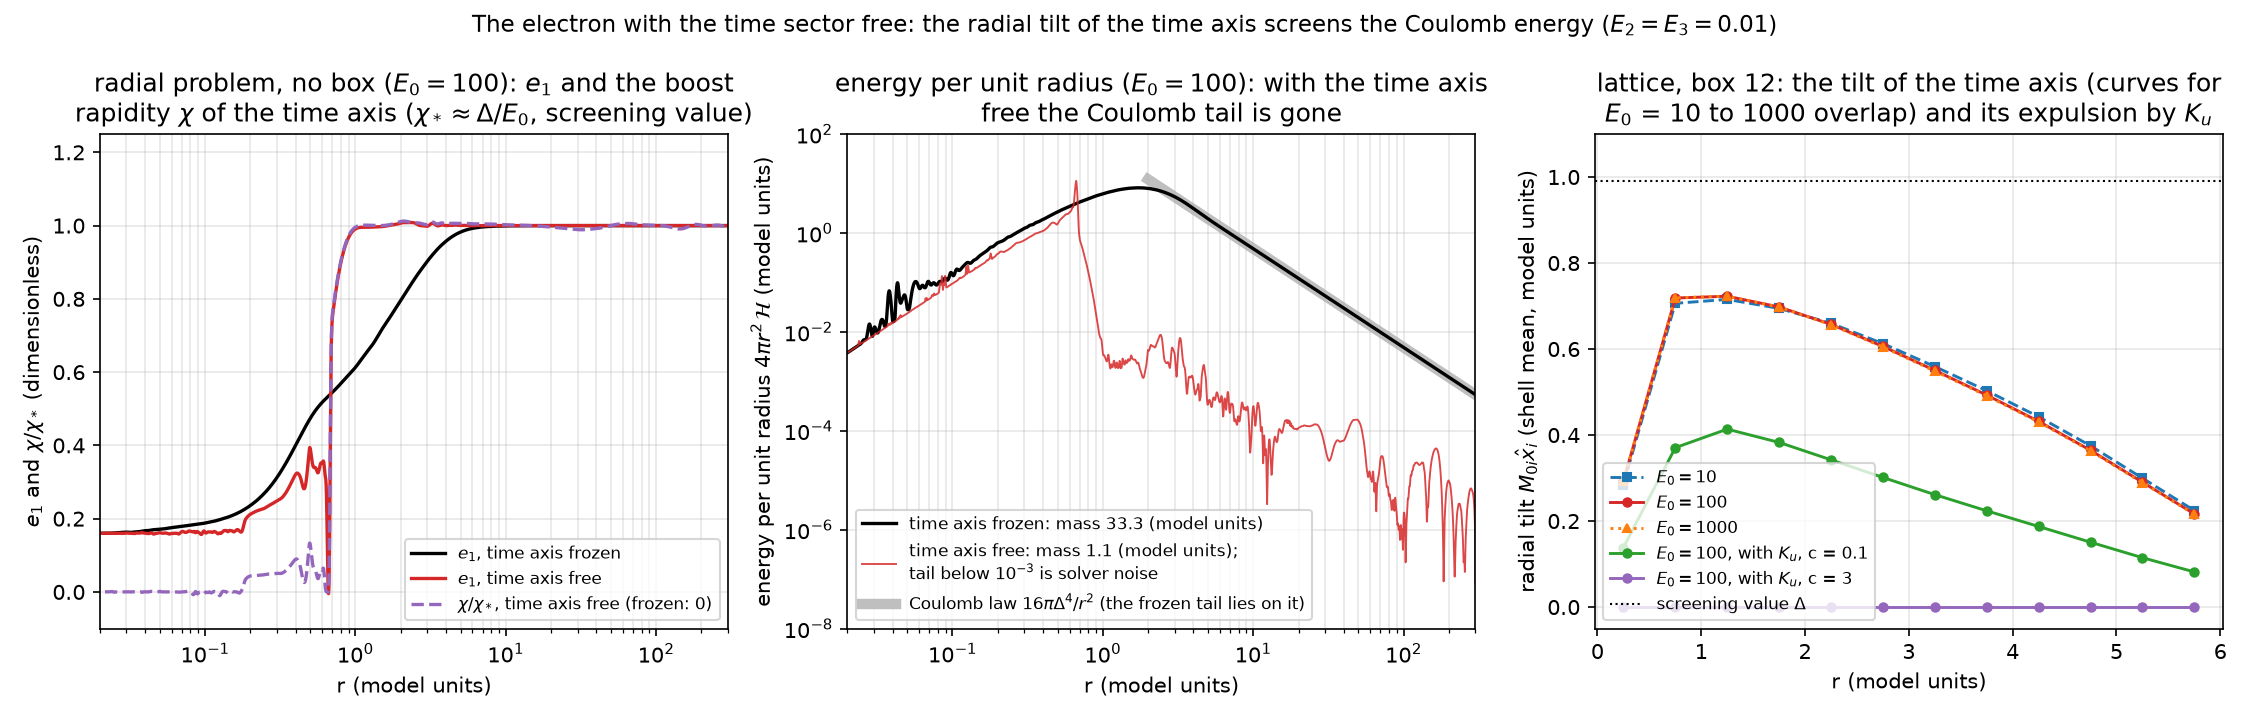
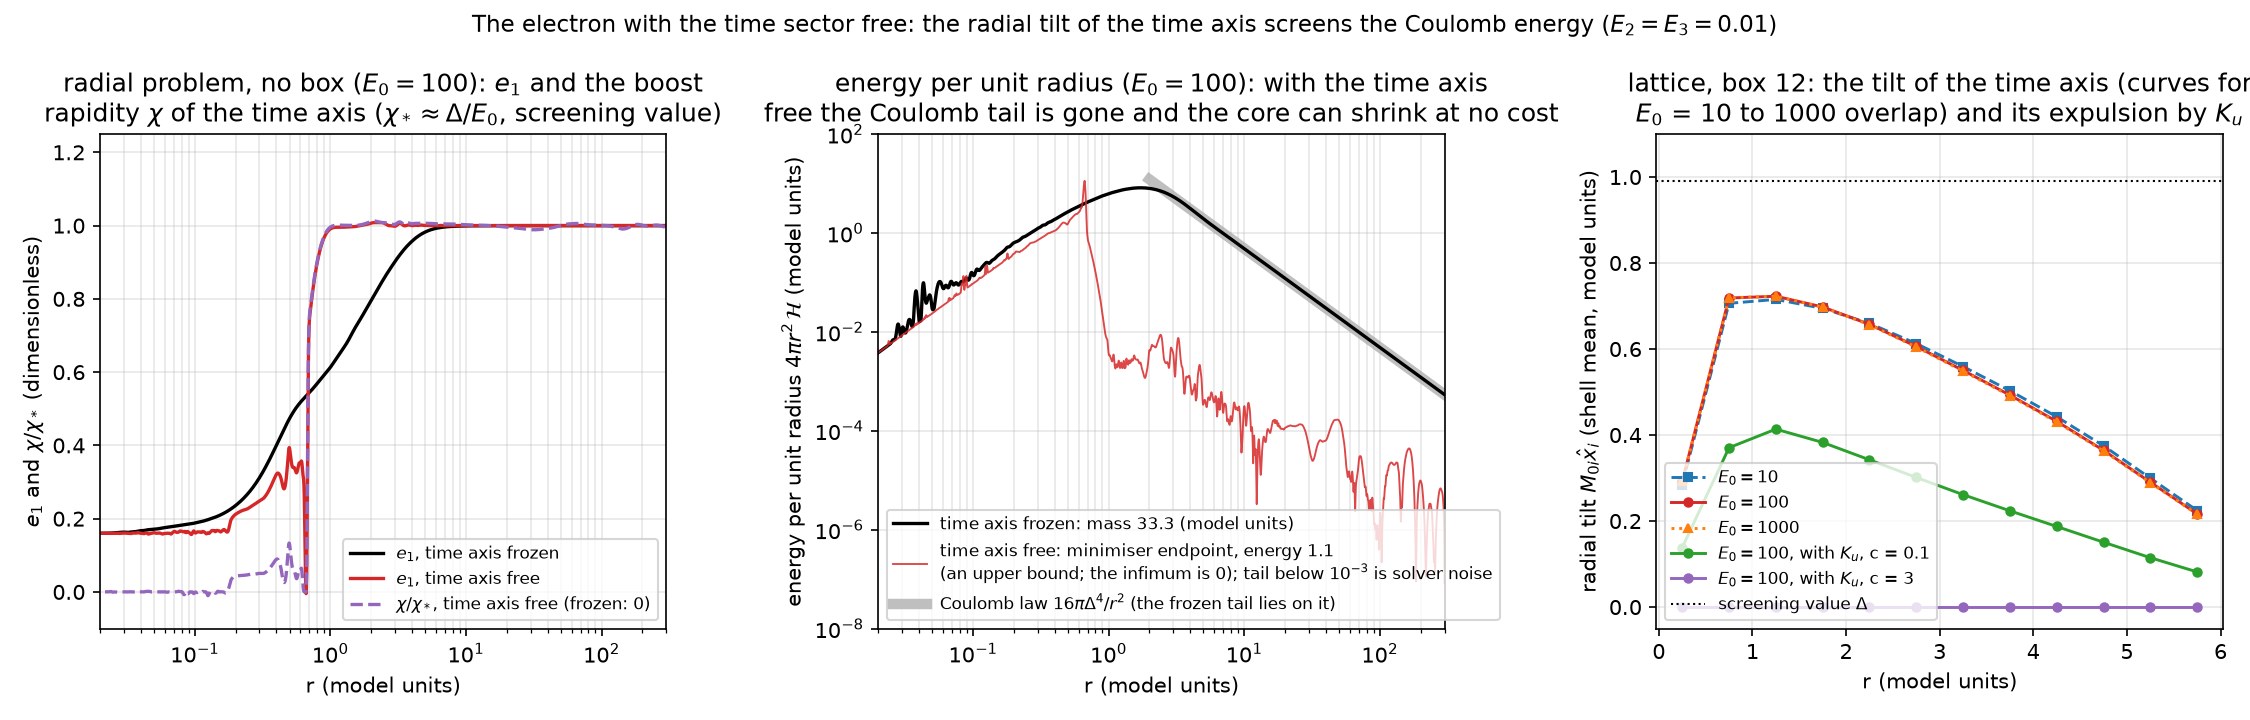
016 review round 1: the screened energy has infimum zero in the continuum (family with F = 0 and exact exterior spectrum, E <= (8 pi/3) Delta^2 R^3, checked symbolically and by integrating the model density); radial endpoints re-labelled as attained upper bounds; K_u noted to exclude the collapse fa
Claude-Session: https://claude.ai/code/session_01QP2nAtvThEMWhiKzux6iWF

diff --git a/reports/016-time-axis-screening/screened_infimum.py b/reports/016-time-axis-screening/screened_infimum.py
@@ -1,0 +1,107 @@
+"""With the time sector free and no frame term, the energy of the charged configuration has infimum zero
+(review round 1). The family N = C - a(r) P with C = diag(E_0 + Delta, B, B, B), B = E_2 = E_3,
+P = l l^T eta, l = (1, x/r) null, a smooth profile a(r) rising from 0 (r <= R/2) to
+a_* = (E_1 - B)(E_0 - B)/(E_0 + E_1 - 2B) (r >= R):
+  (i)  d_i N = -a' x_i/r P - a d_i P and these commute for every a, a', so F = 0 everywhere;
+  (ii) the spectrum of N is (B, B) together with the roots of lam^2 - (A + B) lam + AB + a(A - B), A = E_0 + Delta,
+       which are exactly (E_0, E_1) at a = a_*: outside r = R the potential vanishes too;
+  (iii) inside, V <= 2 Delta^2, so E(R) <= (8 pi / 3) Delta^2 R^3 -> 0, while the charge (degree of the charge
+       direction on spheres r > R) is 1.
+(i) and (ii) are checked with sympy at a generic point with a, a' symbolic; E(R) is integrated numerically
+for the smoothstep profile with the model's own density (lagrangian.terms, analytic Cartesian derivatives).
+Writes results/screened_infimum.json.
+"""
+import json
+import math
+import numpy as np
+import sympy as sp
+import torch
+from lagrangian import terms
+
+torch.set_default_dtype(torch.float64)
+E = (100.0, 1.0, 0.01, 0.01)
+B = E[2]; Delta = E[1] - B; A = E[0] + Delta
+a_star = (E[1] - B) * (E[0] - B) / (E[0] + E[1] - 2 * B)
+
+# (i), (ii) symbolic
+x, y, z = sp.symbols('x y z', real=True)
+a, ap = sp.symbols('a ap', real=True)
+E0s, E1s, Bs = sp.symbols('E0 E1 B', positive=True)
+lam = sp.Symbol('lam')
+As = E0s + E1s - Bs
+r = sp.sqrt(x ** 2 + y ** 2 + z ** 2)
+l = sp.Matrix([1, x / r, y / r, z / r])
+eta = sp.diag(1, -1, -1, -1)
+P = l * l.T * eta
+C = sp.diag(As, Bs, Bs, Bs)
+dN = [-(ap * v / r) * P - a * P.diff(v) for v in (x, y, z)]
+point = {x: 1, y: 2, z: 2}          # r = 3, all entries rational
+Fmax = 0
+for i in range(3):
+    for j in range(i + 1, 3):
+        Fij = sp.simplify((dN[i] * dN[j] - dN[j] * dN[i]).subs(point))
+        Fmax = max(Fmax, max(abs(e) for e in Fij))
+Np = (C - a * P).subs(point)
+cp = sp.factor(Np.charpoly(lam).as_expr())
+target = sp.factor((lam - Bs) ** 2 * (lam ** 2 - (As + Bs) * lam + As * Bs + a * (As - Bs)))
+astar_s = (E1s - Bs) * (E0s - Bs) / (E0s + E1s - 2 * Bs)
+cp_star = sp.factor(cp.subs(a, astar_s))
+target_star = sp.factor((lam - E0s) * (lam - E1s) * (lam - Bs) ** 2)
+ok_F = Fmax == 0
+ok_cp = sp.simplify(cp - target) == 0
+ok_star = sp.simplify(cp_star - target_star) == 0
+print(f'F = 0 for symbolic a, a\': {ok_F}; characteristic polynomial (lam-B)^2 (lam^2 - (A+B) lam + AB + a(A-B)): {ok_cp}; '
+      f'at a = a_*: (lam-E0)(lam-E1)(lam-B)^2: {ok_star}')
+
+# (iii) numeric energy of the family for several core sizes R
+def smoothstep(t):
+    t = min(max(t, 0.0), 1.0); return t * t * (3 - 2 * t)
+
+def field(xv, R):
+    rr = np.linalg.norm(xv); n = xv / rr
+    t = (rr - R / 2) / (R / 2)
+    s = smoothstep(t); ds = (6 * t * (1 - t) / (R / 2)) if 0 < t < 1 else 0.0
+    av, dav = a_star * s, a_star * ds
+    ETA = np.diag([1.0, -1, -1, -1])
+    lv = np.concatenate([[1.0], n])
+    Pm = np.outer(lv, lv) @ ETA
+    N = np.diag([A, B, B, B]) - av * Pm
+    dn = (np.eye(3) - np.outer(n, n)) / rr
+    dN = np.zeros((4, 4, 4))
+    for i in range(3):
+        dl = np.concatenate([[0.0], dn[i]])
+        dP = (np.outer(dl, lv) + np.outer(lv, dl)) @ ETA
+        dN[1 + i] = -dav * n[i] * Pm - av * dP
+    M = ETA @ N
+    dM = np.einsum('ab,ibc->iac', ETA, dN)
+    return M, dM
+
+def density(xv, R):
+    M, dM = field(xv, R)
+    kin, pot, _ = terms(torch.tensor(M)[None], torch.tensor(dM)[None], E, frozen=False)
+    return float(-kin), float(pot)
+
+dirs = [np.array(v) / np.linalg.norm(v) for v in ([1, 2, 3], [-2, 1, 0.5], [0.3, -0.7, 2])]
+rows = []
+for R in (1.0, 0.3, 0.1):
+    xg, wg = np.polynomial.legendre.leggauss(60)
+    rs = R / 2 + (R / 2) * (xg + 1) / 2; ws = wg * (R / 4)          # the transition zone r in [R/2, R]
+    Ein, worst_kin, worst_pot_out = 0.0, 0.0, 0.0
+    for rr, w in zip(rs, ws):
+        k, p = np.mean([density(rr * d, R) for d in dirs], axis=0)
+        Ein += 4 * math.pi * rr ** 2 * p * w
+        worst_kin = max(worst_kin, abs(k))
+    # inside r < R/2 the field is constant: V = 2 Delta^2 there (eigenvalues (A, B, B, B))
+    Ecore = 4 * math.pi / 3 * (R / 2) ** 3 * 2 * Delta ** 2
+    for rr in (R * 1.5, 5.0, 50.0):
+        k, p = density(rr * dirs[0], R)
+        worst_kin = max(worst_kin, abs(k)); worst_pot_out = max(worst_pot_out, abs(p))
+    rows.append(dict(R=R, E=Ein + Ecore, bound=8 * math.pi / 3 * Delta ** 2 * R ** 3, quartic_max=worst_kin, potential_outside_max=worst_pot_out))
+    print(f'R = {R:4g}: E = {Ein + Ecore:.5f} (bound (8 pi/3) Delta^2 R^3 = {rows[-1]["bound"]:.5f}); |quartic| <= {worst_kin:.1e}; V outside <= {worst_pot_out:.1e}')
+Rs = np.array([q['R'] for q in rows]); Es = np.array([q['E'] for q in rows])
+expo = float(np.polyfit(np.log(Rs), np.log(Es), 1)[0])
+print(f'E(R) ~ R^{expo:.2f}')
+out = dict(F_zero_symbolic=bool(ok_F), charpoly_ok=bool(ok_cp), exterior_spectrum_exact=bool(ok_star), a_star=a_star, rows=rows, exponent=expo)
+json.dump(out, open('results/screened_infimum.json', 'w'), indent=1)
+assert ok_F and ok_cp and ok_star and abs(expo - 3) < 0.1 and all(q['E'] <= q['bound'] * 1.001 and q['quartic_max'] < 1e-12 and q['potential_outside_max'] < 1e-12 for q in rows)
+print('INFIMUM OK')

diff --git a/reports/016-time-axis-screening/verify_artifacts.py b/reports/016-time-axis-screening/verify_artifacts.py
@@ -41,8 +41,11 @@ assert all(cure[i][1] < cure[i + 1][1] for i in range(len(cure) - 1)), 'energy r
 assert abs(cure[-1][1] - frozen['E']) < 1e-4, 'at the largest coupling the minimiser returns to the frozen hedgehog'
 rad2 = json.load(open('results/radial_E0_100_nk240.json'))
 rad = {'frozen': rad2['frozen'], 'screened': json.load(open('results/radial_E0_100_nk480.json'))['screened']}
-assert abs(rad['frozen']['E'] - 33.3) < 0.3 and rad['screened']['E'] < 0.05 * rad['frozen']['E'], '1D: screened mass a few percent of the frozen one'
-assert abs(rad2['screened']['E'] - rad['screened']['E']) < 0.1, 'screened mass converged in the knots'
+assert abs(rad['frozen']['E'] - 33.3) < 0.3 and rad['screened']['E'] < 0.05 * rad['frozen']['E'], '1D: the attained screened endpoint is a few percent of the frozen mass'
+inf = json.load(open('results/screened_infimum.json'))
+assert inf['F_zero_symbolic'] and inf['charpoly_ok'] and inf['exterior_spectrum_exact'], 'zero-infimum family: F = 0 and exact exterior spectrum'
+assert abs(inf['exponent'] - 3) < 0.1 and min(q['E'] for q in inf['rows']) < 0.01, 'zero-infimum family: E ~ R^3 down to 0.003'
+assert rad2['screened']['E'] > rad['screened']['E'] - 0.05, '1D: the endpoint does not rise with the knots (upper bound tightening)'
 import glob, re
 scan = sorted((float(re.search(r'tilt([0-9.]+)\.json', f).group(1)), json.load(open(f))['screened']['E']) for f in glob.glob('results/radial_E0_100_nk240_tilt*.json'))
 assert all(scan[i + 1][1] > scan[i][1] - 0.02 for i in range(len(scan) - 1)), '1D: mass rises with c (flat within 0.02 once restored)'

diff --git a/reports/016-time-axis-screening/make_figures.py b/reports/016-time-axis-screening/make_figures.py
@@ -39,11 +39,11 @@ def fig_screening():
     r, dens = np.array(pf['r']), np.array(pf['density']); m = (r > 0.02) & (dens > 0)
     ax[1].loglog(r[m], dens[m], color='k', lw=1.6, label=f'time axis frozen: mass {rad["frozen"]["E"]:.1f} (model units)')
     r, dens = np.array(ps['r']), np.array(ps['density']); m = (r > 0.02) & (dens > 0)
-    ax[1].loglog(r[m], dens[m], color='C3', lw=0.9, alpha=0.85, label=f'time axis free: mass {rad["screened"]["E"]:.1f} (model units);\ntail below $10^{{-3}}$ is solver noise')
+    ax[1].loglog(r[m], dens[m], color='C3', lw=0.9, alpha=0.85, label=f'time axis free: minimiser endpoint, energy {rad["screened"]["E"]:.1f}\n(an upper bound; the infimum is 0); tail below $10^{{-3}}$ is solver noise')
     rr = np.logspace(0.3, 2.5, 50)
     ax[1].loglog(rr, 16 * math.pi * Delta ** 4 / rr ** 2, '-', color='0.75', lw=5, zorder=0, label='Coulomb law $16\\pi\\Delta^4/r^2$ (the frozen tail lies on it)')
     ax[1].set(xlabel='r (model units)', ylabel='energy per unit radius $4\\pi r^2\\,\\mathcal{H}$ (model units)', xlim=(2e-2, 300), ylim=(1e-8, 1e2),
-              title='energy per unit radius ($E_0 = 100$): with the time axis\nfree the Coulomb tail is gone')
+              title='energy per unit radius ($E_0 = 100$): with the time axis\nfree the Coulomb tail is gone and the core can shrink at no cost')
     ax[1].legend(fontsize=8, loc='lower left')
     # (c) lattice tilt profiles
     for name, col, ls, mk, lab in (('static_unfrozen_E0_10.pt', 'C0', '--', 's', '$E_0 = 10$'), ('static_unfrozen_E0_100.pt', 'C3', '-', 'o', '$E_0 = 100$'),

diff --git a/reports/016-time-axis-screening/README.md b/reports/016-time-axis-screening/README.md
@@ -3,9 +3,11 @@
 *2026-09-10 · Maciej J. Mikulski (AI-assisted, see [METHOD](../../METHOD.md)) ·
 the static electron of reports 004–013 was relaxed with its time sector
 frozen; this report lets the time sector move and finds that the
-hedgehog is not a minimum there: the far field sheds its Coulomb
-energy by tilting the time axis toward the light cone, and of the
-terms tried only one that sees the eigenframe prevents it.*
+hedgehog is not a minimum there: by tilting the time axis toward the
+light cone the charged configuration sheds not only its Coulomb energy
+but, without a box, all of its energy — the infimum at fixed charge is
+zero — and of the terms tried only one that sees the eigenframe
+prevents it.*
 
 ## Notation (self-contained)
 
@@ -64,13 +66,24 @@ Conventions of the development repository `new-duda-lagrangian`
    | energy in box 12 (frozen: 27.29) | 20.4 | 22.0 | 22.1 |
    | maximal tilt amplitude m | 0.95 | 0.96 | 0.96 |
 
-   Without a box the radial problem gives a frozen mass of 33.3 and a
-   screened mass of about 1 (1.1 with 240 knots, 1.05 with 480), three
-   percent of the frozen value: a melted core of radius 0.6 wrapped in
-   a thin wall where χ jumps to its screening value, outside of which
-   the energy density vanishes (`radial_screened.py`, figure below).
-   The wall is thinner than the knot spacing, so the screened mass is
-   known to about 10%, not better.
+   Without a box the radial problem gives a frozen mass of 33.3, while
+   the minimisation with the boost free ends at 1.1 (240 knots) and
+   1.05 (480 knots): a melted core of radius 0.6 wrapped in a thin wall
+   where χ jumps to its screening value, outside of which the energy
+   density vanishes (`radial_screened.py`, figure below). These
+   endpoints are upper bounds, not a mass: **the infimum is zero**
+   (review round 1). The family N = C − a(r) ℓℓᵀη with ℓ = (1, x̂) null,
+   C = diag(E₀+Δ, E₂, E₂, E₂) and a(r) rising smoothly from 0 at
+   r ≤ R/2 to a* = (E₁−E₂)(E₀−E₂)/(E₀+E₁−2E₂) at r ≥ R has F ≡ 0
+   everywhere (the derivatives of N commute for any profile), the
+   exact vacuum spectrum (E₀, E₁, E₂, E₂) outside r = R, a potential
+   bounded by 2Δ² inside, and the charge intact; hence
+   E ≤ (8π/3)Δ²R³ → 0. Checked symbolically and by integrating the
+   model's own density: E(R) ∝ R^3.00, E(0.1) = 0.003
+   (`screened_infimum.py`). The spline minimiser stops at 1 because it
+   cannot resolve a wall thinner than its knot spacing; the physical
+   statement is that with the time sector free the charged
+   configuration has no finite mass at all.
 3. **Why: the null-direction hedgehog.** At m = Δ the operator is
    N = const − Δ ℓℓᵀη with ℓ = (1, x̂) null, ℓℓᵀη nilpotent and
    traceless; then [∂ᵢN, ∂ⱼN] ≡ 0 and tr(∂ᵢN ∂ⱼN) ≡ 0, so F and every
@@ -91,7 +104,8 @@ Conventions of the development repository `new-duda-lagrangian`
    on the screened state it costs 2 sinh²χ (e₀−e₂)²/r², so its integral
    grows with the box while the Coulomb energy it saves is finite, and
    the break-even coupling at radius r is c* = 2Δ²/r² (accurate to 2%
-   over r = 1–30). The stiffness of the radial tilt is −0.00086 + 0.066c
+   over r = 1–30). In particular K_u excludes the zero-infimum family of
+   result 2, whose tilt persists to infinity. The stiffness of the radial tilt is −0.00086 + 0.066c
    and turns positive at c ≈ 0.013 (local threshold); the tilted state
    stays the global minimum up to a coupling between 0.1 and 0.3, above
    which the minimiser returns to the frozen hedgehog: on the lattice to
@@ -122,9 +136,10 @@ Conventions of the development repository `new-duda-lagrangian`
 Every lattice static in that line was computed in the frozen sector,
 and the boost tangents used for the clock were frozen dressings of
 such statics. The present result says that with the δ_M norm the
-frozen electron is a saddle of the full energy, and that the
-instability does not go away with the hierarchy E₀ → ∞ (the tilt
-angle is Δ/E₀, the component M₀ᵢ stays of order Δ). The mechanism is
+frozen electron is a saddle of the full energy, that the charged
+configuration has zero energy infimum once the time sector is free,
+and that neither goes away with the hierarchy E₀ → ∞ (the tilt angle
+is Δ/E₀, the component M₀ᵢ stays of order Δ). The mechanism is
 convention-free (a Kerr–Schild-type deformation along a null direction
 makes the curvature vanish), but nothing here is measured at
 (g, δ) = (8, 0.3), and whether the 32³ hedgehog of report 004 has the
@@ -133,15 +148,17 @@ same unstable direction is a one-run check that is not made here.
 ## What this report does not show
 
 - Boxes larger than 12 are not regenerated here; the development
-  repository records screened energies of 17.25 (box 18) and 13.9
-  (box 24), monotone toward the radial value 0.96, and the cure
-  returning to the frozen value at box 18 as well. E₀ = 3 and 30 are
+  repository records the cure returning to the frozen value at box 18
+  as well. E₀ = 3 and 30 are
   likewise not included (development records: 16.0 and 21.6).
-- The radial problems end with gradient norms of order 1–10 on the
-  spline coefficients (the wall at r ≈ 0.6 is thinner than the knot
-  spacing there); the screened mass moved from 1.13 to 1.05 between 240
-  and 480 knots and the development repository's runs of the same code
-  gave 0.99 and 0.96, so it is quoted as "about 1".
+- The radial minimisations with the boost free end with gradient norms
+  of order 10 on the spline coefficients and are quoted only as
+  attained upper bounds (1.1 and 1.05; the development repository's
+  runs of the same code gave 0.99 and 0.96); the infimum is zero and
+  is not attained by any smooth configuration of finite core size. The
+  lattice energies in a box (22.0 at box 12) are set by the frozen
+  Dirichlet boundary and the spacing, and the development repository's
+  box scan (17.25 at box 18, 13.9 at box 24) falls accordingly.
 - K_u is a candidate, not a derived term: nothing selects it beyond
   the requirement of seeing the frame, and the list of probed
   invariants is finite; whether the model's author wants a term that
@@ -165,8 +182,9 @@ same unstable direction is a one-run check that is not made here.
 profiles and far-field ratios of the committed lattice endpoints in
 `results/fields/`: frozen; time sector free at E₀ = 10, 100, 1000 and
 the E₀ = 100 minimisation redone here; with K_u at c = 0.03, 0.1, 0.3,
-3), `radial_screened.py` (frozen and
-screened masses at 240 and 480 knots, the coupling scan) — each writes
+3), `radial_screened.py` (frozen mass and
+screened upper bounds at 240 and 480 knots, the coupling scan),
+`screened_infimum.py` (the zero-infimum family) — each writes
 the JSON of the same name in `results/`; `make_figures.py` draws the
 two figures from those JSONs and `verify_artifacts.py` asserts the
 structure.

diff --git a/README.md b/README.md
@@ -24,7 +24,7 @@ behind every number, and a reproduction script.
 | 012 | [Scaling toward the proposed vacuum hierarchy](reports/012-delta-g-scaling/) | Pre-registered 3×3 grid over (δ, g) toward the author's g ~ 10¹⁰, δ ~ 10⁻¹⁰: δ is a flat direction measured AT the target (10⁻¹⁰, 10⁻¹¹ match 1/8 to 0.1%); g is live and potential-variant-sensitive (drive grows in both variants, ω_pred rises in the original theory vs falls in the relative variant; absolute-potential breakdown at g = 512 documented at 13 ulp); both time-part signs stable at all points |
 | 013 | [C10's candidate wells do not certify within a 24-cycle continuation](reports/013-window-convergence/) | A budget-bounded negative on the deepest-probed corner of report 010's open question: the C10 candidate wells at couplings ×10 and ×14 do not certify under a 24-cycle observable-level continuation and the drift shows no sign of saturating (×14 inverts the bracket structure; ×10 keeps close brackets with the top rung below the minimum); the boost bracket of report 008 holds its order under the same budget; the grammar-wide existence question stays open |
 | 015 | [The halo mechanism: a purely quartic gradient energy gives the hedgehog an unbounded moment of inertia](reports/015-halo-inertia/) | Outside the core the model is the Faddeev–Skyrme quartic without a sigma term; an internal tilt θ(r) of the halo costs exactly (32π/3)Δ⁴∫θ′² and carries the inertia (64π/3)Δ⁴∫4 sin²(θ/2)(1 + r²θ′²/2) (lattice: inertia to 2%, cost to 10–30%, two boxes), so the fixed-J infimum is the static energy for every J: no fixed-J minimiser is a rotor with finite frequency and the rotor clock condition E/Ω = 2J cannot be met by one (stationary non-minimal branches and quantization not addressed); fixed-J minimization in a box gives localized deformations with E/(2JΩ) ≈ 70–500 (fitted inertia prefactors within 2% of the exterior formula) |
-| 016 | [The time sector of the electron: screening of the Coulomb energy by a tilt of the time axis, and the frame term that stops it](reports/016-time-axis-screening/) | In the H-adjoint form with the time sector free, the frozen hedgehog is a saddle: the radial tilt of the time axis toward the light cone (a null-direction, Kerr–Schild-type configuration on which F and every Lorentz scalar in ∂N vanish exactly) screens the Coulomb energy — mass 33.3 → 0.96 without a box, 27.3 → 22.0 in box 12, independent of E₀ from 10 to 1000; every term built from the spectrum or the charge direction is blind to it; the frame term K_u (zero on the whole frozen record) restores the mass with a local threshold c ≈ 0.013 and a global one between 0.1 and 0.3, and opens the model's only wave sector (three light-speed tilt modes, no ghost) |
+| 016 | [The time sector of the electron: screening of the Coulomb energy by a tilt of the time axis, and the frame term that stops it](reports/016-time-axis-screening/) | With the time sector free, the frozen hedgehog is a saddle: the radial tilt of the time axis toward the light cone (a null-direction configuration on which F and every Lorentz scalar in ∂N vanish exactly) screens the Coulomb energy, and without a box the charged configuration has zero energy infimum (a family with F ≡ 0 and E ≤ (8π/3)Δ²R³, charge intact); box 12: 27.3 → 22.0, independent of E₀ from 10 to 1000; every term built from the spectrum or the charge direction is blind to it; the frame term K_u (zero on the whole frozen record) restores the mass with a local threshold c ≈ 0.013 and a global one between 0.1 and 0.3, and opens the model's only linear dynamics (three light-speed tilt modes, no ghost) |
 
 ## How to reproduce
 
